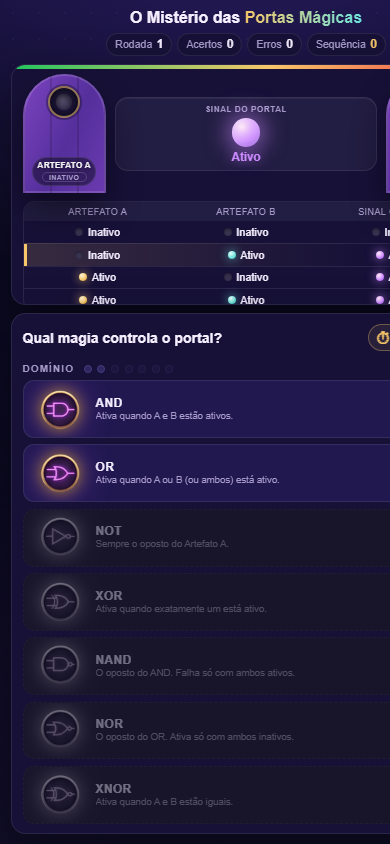
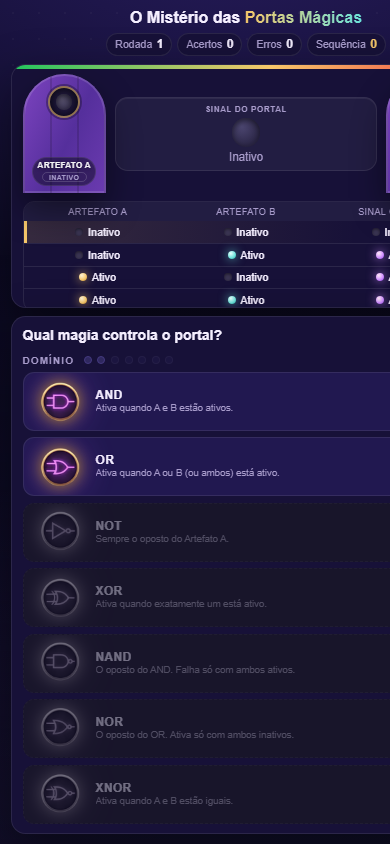
Add files via upload

diff --git a/game.js b/game.js
@@ -55,34 +55,20 @@ const game = {
 
 const $ = (sel) => document.querySelector(sel);
 
-let timeLimit = 15; // segundos por rodada (ajustável)
-const TIME_MIN = 8;
-const TIME_MAX = 30;
+const TIME_BASE = 10; // segundos por rodada (mais curto: ritmo arcade)
+const TIME_FLOOR = 4; // nunca desce disso
+const TIME_BLOCK = 5; // -1s a cada bloco de rodadas
+const TIME_BONUS_CAP = 3; // +1s por acerto seguido, no maximo +3s
 let ticker = null;
 
-function loadTimeLimit() {
-  try {
-    const v = parseInt(localStorage.getItem('portas-magicas-time'), 10);
-    if (!Number.isNaN(v)) timeLimit = Math.min(TIME_MAX, Math.max(TIME_MIN, v));
-  } catch (err) {
-    /* padrão 15s */
-  }
+function timeForRound(round) {
+  const penalty = Math.floor((round - 1) / TIME_BLOCK);
+  return Math.max(TIME_FLOOR, TIME_BASE - penalty);
 }
 
-function saveTimeLimit() {
-  try {
-    localStorage.setItem('portas-magicas-time', String(timeLimit));
-  } catch (err) {
-    /* sem persistência */
-  }
-}
-
-function setTimeLimit(delta) {
-  timeLimit = Math.min(TIME_MAX, Math.max(TIME_MIN, timeLimit + delta));
-  const el = $('#timerSecs');
-  if (el) el.textContent = timeLimit;
-  saveTimeLimit();
-  if (!game.answered) startTimer(); // aplica na rodada atual
+function effectiveTime(round, streak) {
+  const bonus = Math.min(streak, TIME_BONUS_CAP);
+  return Math.min(TIME_BASE + TIME_BONUS_CAP, timeForRound(round) + bonus);
 }
 
 function stopTimer() {
@@ -95,9 +81,11 @@ function stopTimer() {
 function startTimer() {
   stopTimer();
   const fill = $('#timerFill');
+  const count = $('#timerCount');
   if (!fill) return;
   const start = performance.now();
-  const total = timeLimit * 1000;
+  const total = effectiveTime(game.round, game.streak) * 1000;
+  if (count) count.textContent = effectiveTime(game.round, game.streak);
   fill.style.width = '100%';
   fill.classList.remove('low');
 
@@ -106,6 +94,10 @@ function startTimer() {
     const pct = Math.max(0, (left / total) * 100);
     fill.style.width = pct + '%';
     fill.classList.toggle('low', pct < 30);
+    if (count) {
+      const rem = Math.max(0, Math.ceil(left / 1000));
+      if (+count.textContent !== rem) count.textContent = rem;
+    }
     if (left <= 0) {
       stopTimer();
       if (!game.answered) timeoutRound();
@@ -429,6 +421,9 @@ function guess(opKey) {
       icon.textContent = '✨';
       text.innerHTML = `Acertou! O portal é controlado por <strong>${correctOp.pt}</strong>.`;
     }
+    if (game.streak >= 2 && mastered === false) {
+      showToast(`Sequência x${game.streak} · +1s na próxima rodada`);
+    }
   } else {
     game.losses++;
     game.streak = 0;
@@ -470,6 +465,7 @@ function newRound() {
   game.B = Math.random() < 0.5 ? 0 : 1;
 
   $('#roundNum').textContent = game.round;
+  $('#timerCount').textContent = effectiveTime(game.round, game.streak);
   const nb = $('#nextRound');
   nb.disabled = true;
   nb.classList.remove('btn-pop');
@@ -525,7 +521,6 @@ function rebloomOptions() {
 
 function init() {
   loadStats();
-  loadTimeLimit();
   buildTable();
   buildMagics();
   setupViews();
@@ -535,11 +530,6 @@ function init() {
     door.addEventListener('click', () => toggleDoor(door.dataset.door));
   });
   $('#nextRound').addEventListener('click', newRound);
-  $('#timerMinus').addEventListener('click', () => setTimeLimit(-1));
-  $('#timerPlus').addEventListener('click', () => setTimeLimit(1));
-
-  const secs = $('#timerSecs');
-  secs.textContent = timeLimit;
 }
 
 init();

diff --git a/style.css b/style.css
@@ -879,56 +879,16 @@ body::after {
   }
 }
 
-/* Stepper do tempo */
-.timer-zone {
-  display: flex;
-  align-items: center;
-  gap: 0.3rem;
-  margin-left: auto;
-}
-
-.timer-chip {
-  display: inline-flex;
-  align-items: baseline;
-  gap: 0.15rem;
-  padding: 0.28rem 0.6rem;
-  border-radius: 999px;
-  font-size: 0.8rem;
-  font-weight: 700;
-  color: var(--gold);
-  background: rgba(246, 199, 106, 0.08);
-  border: 1px solid rgba(246, 199, 106, 0.35);
-}
-
-.timer-chip .timer-icon {
-  font-size: 0.9rem;
-}
-
-.timer-btn {
-  width: 1.5rem;
-  height: 1.5rem;
-  display: inline-flex;
-  align-items: center;
-  justify-content: center;
-  font: inherit;
+.timer-count {
+  position: absolute;
+  top: 8px;
+  right: 12px;
+  z-index: 6;
+  font-size: 0.66rem;
   font-weight: 800;
-  color: var(--text);
-  background: var(--surface-2);
-  border: 1px solid var(--line);
-  border-radius: 999px;
-  cursor: pointer;
-  transition: transform 0.15s ease, border-color 0.15s ease, background 0.15s ease;
-}
-
-.timer-btn:hover:not(:disabled) {
-  border-color: var(--line-gold);
-  background: var(--surface-hover);
-  transform: translateY(-1px);
-}
-
-.timer-btn:focus-visible {
-  outline: 2px solid var(--gold);
-  outline-offset: 2px;
+  letter-spacing: 0.08em;
+  color: var(--muted);
+  pointer-events: none;
 }
 
 /* Flash suave dourado na troca de rodada (gatilho sem banner) */
@@ -1672,20 +1632,10 @@ body::after {
     height: 4px;
   }
 
-  .timer-zone {
-    gap: 0.2rem;
-    margin-left: auto;
-  }
-
-  .timer-chip {
-    padding: 0.18rem 0.45rem;
-    font-size: 0.68rem;
-  }
-
-  .timer-btn {
-    width: 1.25rem;
-    height: 1.25rem;
-    font-size: 0.85rem;
+  .timer-count {
+    top: 6px;
+    right: 10px;
+    font-size: 0.6rem;
   }
 
   .progress-row {

diff --git a/index.html b/index.html
@@ -31,6 +31,7 @@
 
       <section class="card stage" aria-label="Palco do jogo">
         <div class="timer-bar" aria-hidden="true"><span id="timerFill"></span></div>
+        <span class="timer-count" id="timerCount" aria-hidden="true">10</span>
         <div class="view-switch" role="tablist" aria-label="Alternar visão do palco">
           <button
             type="button"
@@ -125,24 +126,6 @@
         <div class="card-head">
           <h2 id="magic-title">Qual magia controla o portal?</h2>
           <span class="card-sub">Escolha uma opção</span>
-          <div class="timer-zone" aria-label="Tempo por rodada">
-            <span class="timer-chip" title="Tempo para adivinhar">
-              <span class="timer-icon" aria-hidden="true">⏱</span>
-              <b id="timerSecs">15</b><span>s</span>
-            </span>
-            <button
-              type="button"
-              class="timer-btn"
-              id="timerMinus"
-              aria-label="Diminuir tempo"
-            >−</button>
-            <button
-              type="button"
-              class="timer-btn"
-              id="timerPlus"
-              aria-label="Aumentar tempo"
-            >+</button>
-          </div>
         </div>
         <div class="progress-row" aria-label="Progresso de domínio">
           <span class="progress-label">Domínio</span>
